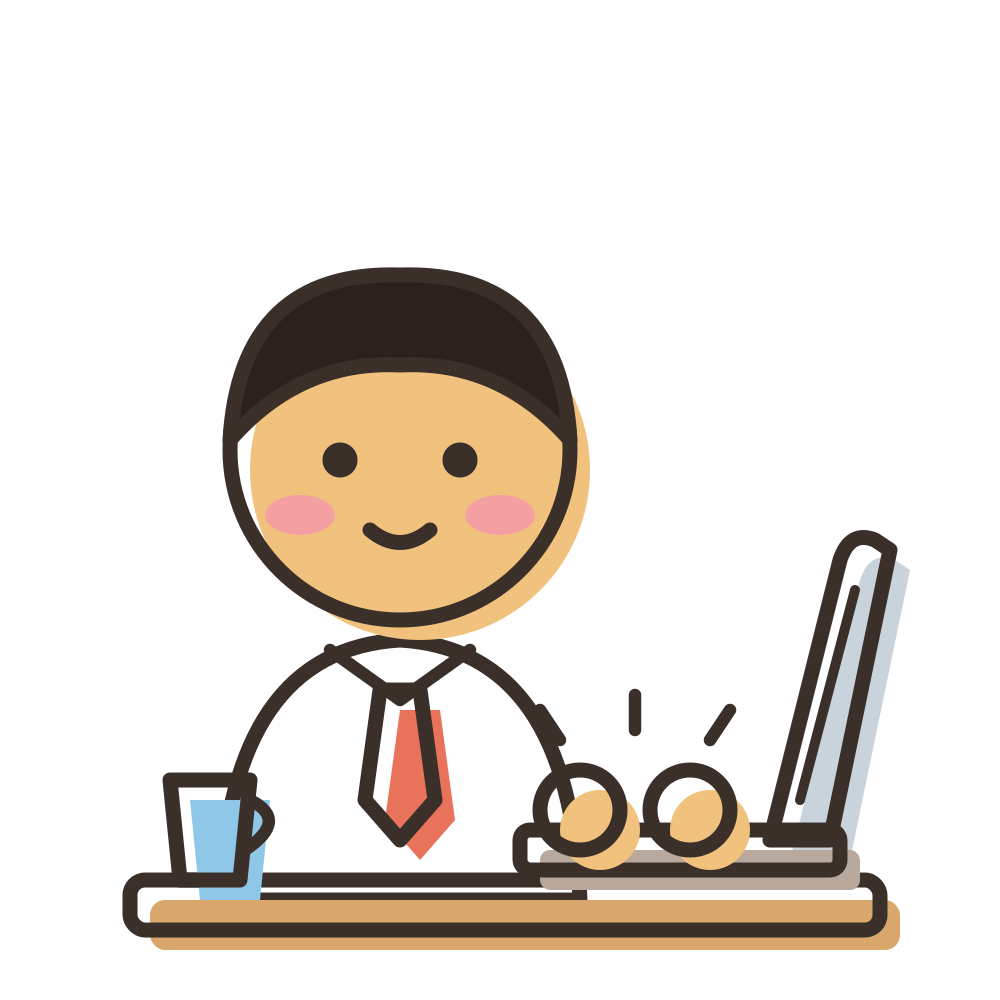
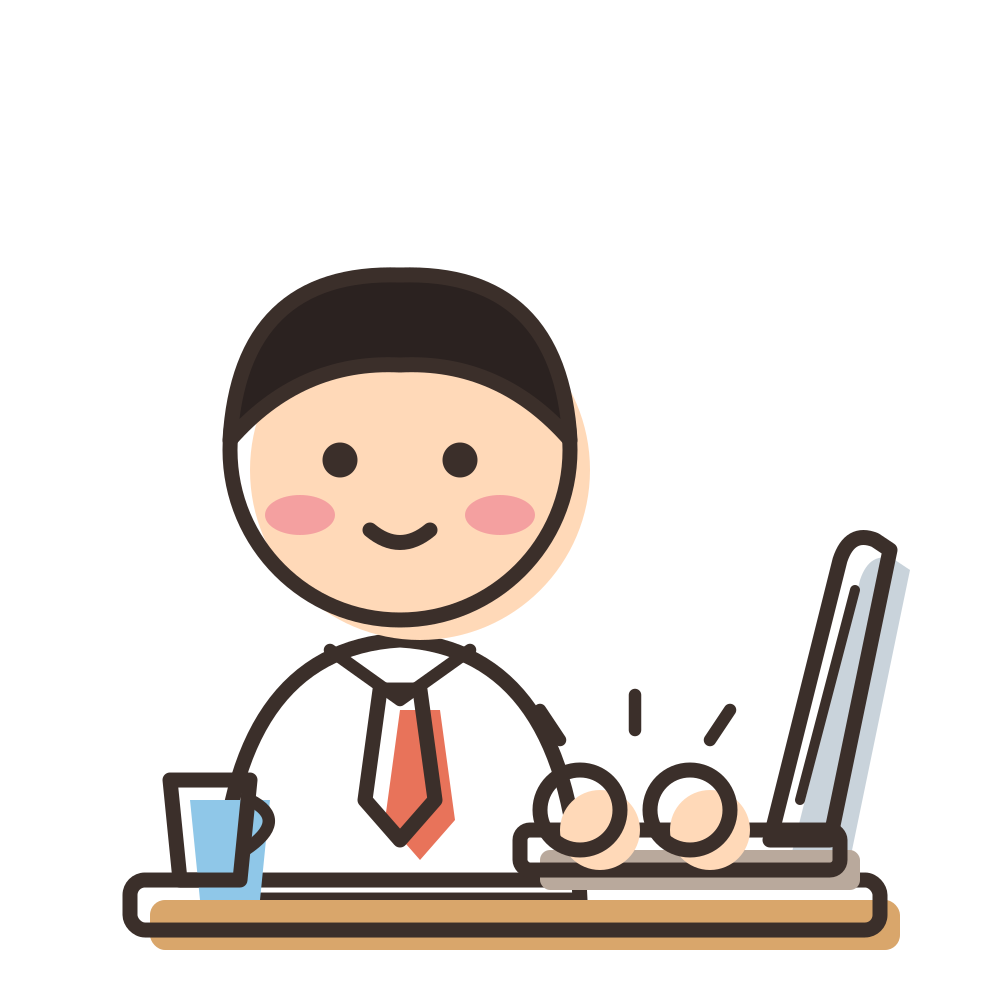
Use the default skin tone for all characters
Claude-Session: https://claude.ai/code/session_01EDMcckEBDPXo8Z4fnALAoH

Changed region(s): [[0.248, 0.372, 0.589, 0.651], [0.558, 0.775, 0.775, 0.868]]

diff --git a/art_items/b01.py b/art_items/b01.py
@@ -18,23 +18,23 @@ def drop(x, y, k=1.0, col='#8fc7e8'):
 # 1. jumping with joy
 ITEMS['person-jumping-joy'] = (
     arm('M80 122 Q60 100 48 62', '#f5b971') + arm('M120 122 Q140 100 152 62', '#f5b971')
-    + z('circle', '#f1c27d', cx=46, cy=56, r=9) + z('circle', '#f1c27d', cx=154, cy=56, r=9)
+    + z('circle', '#ffd9b8', cx=46, cy=56, r=9) + z('circle', '#ffd9b8', cx=154, cy=56, r=9)
     + arm('M88 146 Q80 160 72 170', '#5b6b7a') + arm('M112 146 Q120 160 128 170', '#5b6b7a')
     + z('ellipse', '#8b6b4f', cx=68, cy=172, rx=9, ry=6) + z('ellipse', '#8b6b4f', cx=132, cy=172, rx=9, ry=6)
     + body(100, 112, 152, '#f5b971', 30)
-    + face(100, 76, '#f1c27d', '#5a4033', 'open')
+    + face(100, 76, '#ffd9b8', '#5a4033', 'open')
     + s('path', d='M74 188 Q100 182 126 188', stroke_width=2.5)
     + s('path', d='M28 30 L28 40 M23 35 L33 35 M172 30 L172 40 M167 35 L177 35', stroke_width=2.5))
 
 # 2. thinking
 ITEMS['person-thinking'] = (
     body(88, 136, 186, '#8fc7e8')
-    + head(88, 92, '#8d5a3b', '#2b2220')
+    + head(88, 92, '#ffd9b8', '#2b2220')
     + dot(76, 94) + dot(100, 94) + cheeks(68, 108, 105)
     + s('path', d='M74 112 L84 110')
     + s('path', d='M70 80 L80 78 M96 76 L106 80', stroke_width=2.5)
     + arm('M104 178 Q124 156 108 132', '#8fc7e8')
-    + z('circle', '#8d5a3b', cx=106, cy=126, r=10)
+    + z('circle', '#ffd9b8', cx=106, cy=126, r=10)
     + s('path', d='M140 40 Q140 22 155 22 Q170 22 170 36 Q170 46 158 52 L158 62', stroke_width=12)
     + s('path', d='M140 40 Q140 22 155 22 Q170 22 170 36 Q170 46 158 52 L158 62', stroke='#f5b971', stroke_width=6)
     + z('circle', '#f5b971', cx=158, cy=78, r=6))
@@ -56,8 +56,8 @@ ITEMS['person-angry'] = (
     + z('path', '#f4f4f0', d='M136 40 Q126 40 128 30 Q126 18 140 20 Q146 10 156 18 Q168 18 164 30 Q166 40 154 40Z') + s('path', d='M128 62 Q136 56 130 50 Q124 44 132 40', stroke_width=2.5)
     + arm('M72 150 Q56 160 50 146', '#9ccf7a') + arm('M128 150 Q144 160 150 146', '#9ccf7a')
     + body(100, 136, 186, '#9ccf7a')
-    + z('circle', '#c68642', cx=48, cy=142, r=9) + z('circle', '#c68642', cx=152, cy=142, r=9)
-    + head(100, 94, '#c68642', '#5a4033')
+    + z('circle', '#ffd9b8', cx=48, cy=142, r=9) + z('circle', '#ffd9b8', cx=152, cy=142, r=9)
+    + head(100, 94, '#ffd9b8', '#5a4033')
     + s('path', d='M78 84 L94 90 M122 84 L106 90', stroke_width=3)
     + dot(88, 98) + dot(112, 98)
     + f'<ellipse cx="78" cy="108" rx="9" ry="5" fill="#f07a8a" stroke="none"/><ellipse cx="122" cy="108" rx="9" ry="5" fill="#f07a8a" stroke="none"/>'
@@ -67,17 +67,17 @@ ITEMS['person-angry'] = (
 ITEMS['person-surprised'] = (
     body(100, 136, 186, '#f5d58a')
     + arm('M78 150 Q60 140 58 118', '#f5d58a') + arm('M122 150 Q140 140 142 118', '#f5d58a')
-    + face(100, 92, '#f1c27d', '#2b2220', 'o')
-    + z('circle', '#f1c27d', cx=58, cy=112, r=9) + z('circle', '#f1c27d', cx=142, cy=112, r=9)
+    + face(100, 92, '#ffd9b8', '#2b2220', 'o')
+    + z('circle', '#ffd9b8', cx=58, cy=112, r=9) + z('circle', '#ffd9b8', cx=142, cy=112, r=9)
     + s('path', d='M100 46 L100 34 M72 52 L64 42 M128 52 L136 42 M56 70 L44 64 M144 70 L156 64', stroke_width=3))
 
 # 6. thumbs up
 ITEMS['person-thumbs-up'] = (
     body(92, 136, 186, '#e8735a')
     + arm('M116 160 Q140 150 146 116', '#e8735a')
-    + face(92, 92, '#8d5a3b', '#2b2220', 'smile')
-    + z('rect', '#8d5a3b', x=138, y=82, width=11, height=26, rx=5.5)
-    + z('rect', '#8d5a3b', x=136, y=102, width=26, height=24, rx=9)
+    + face(92, 92, '#ffd9b8', '#2b2220', 'smile')
+    + z('rect', '#ffd9b8', x=138, y=82, width=11, height=26, rx=5.5)
+    + z('rect', '#ffd9b8', x=136, y=102, width=26, height=24, rx=9)
     + s('path', d='M149 110 L160 110 M149 118 L160 118', stroke_width=2)
     + s('path', d='M168 70 L168 80 M163 75 L173 75 M174 96 L182 92', stroke_width=2.5))
 
@@ -100,8 +100,8 @@ ITEMS['person-bowing-thanks'] = (
     + z('ellipse', '#8b6b4f', cx=126, cy=180, rx=16, ry=6)
     + z('ellipse', '#7cc4b0', cx=112, cy=116, rx=40, ry=26, transform='rotate(35 112 116)')
     + arm('M92 104 Q92 124 98 140', '#7cc4b0')
-    + z('circle', '#c68642', cx=98, cy=146, r=8)
-    + z('circle', '#c68642', cx=64, cy=98, r=30)
+    + z('circle', '#ffd9b8', cx=98, cy=146, r=8)
+    + z('circle', '#ffd9b8', cx=64, cy=98, r=30)
     + s('path', '#2b2220', d='M80 124 A30 30 0 1 0 38 83 Q52 104 80 124Z')
     + s('path', d='M48 108 Q53 113 58 108', stroke_width=2.5)
     + f'<ellipse cx="60" cy="119" rx="6" ry="3.5" fill="{CH}" stroke="none"/>'
@@ -113,7 +113,7 @@ ITEMS['grandma-smiling'] = (
     + s('path', '#f4f4f0', d='M92 138 L100 152 L108 138Z', stroke_width=2.5)
     + dot(100, 162, 3.5) + dot(100, 176, 3.5)
     + z('circle', '#e8e1d8', cx=100, cy=52, r=15)
-    + head(100, 92, '#c68642', '#e8e1d8')
+    + head(100, 92, '#ffd9b8', '#e8e1d8')
     + s('path', d='M83 94 Q88 99 93 94 M107 94 Q112 99 117 94', stroke_width=2.5)
     + s('circle', cx=88, cy=95, r=10, stroke_width=2.5) + s('circle', cx=112, cy=95, r=10, stroke_width=2.5)
     + s('path', d='M98 94 Q100 91 102 94', stroke_width=2.5)
@@ -126,9 +126,9 @@ ITEMS['baby-crawling'] = (
     + z('rect', '#8fc7e8', x=86, y=140, width=18, height=40, rx=9)
     + z('ellipse', '#8fc7e8', cx=146, cy=166, rx=24, ry=14)
     + z('ellipse', '#8fc7e8', cx=118, cy=136, rx=46, ry=28)
-    + z('ellipse', '#f1c27d', cx=168, cy=176, rx=9, ry=6)
-    + z('ellipse', '#f1c27d', cx=94, cy=178, rx=10, ry=6)
-    + z('circle', '#f1c27d', cx=64, cy=104, r=34)
+    + z('ellipse', '#ffd9b8', cx=168, cy=176, rx=9, ry=6)
+    + z('ellipse', '#ffd9b8', cx=94, cy=178, rx=10, ry=6)
+    + z('circle', '#ffd9b8', cx=64, cy=104, r=34)
     + s('path', d='M58 72 Q56 58 66 56 Q74 58 68 64 Q64 66 64 62', stroke_width=3)
     + dot(52, 106) + dot(76, 106) + cheeks(44, 84, 117)
     + s('path', d='M58 120 Q64 125 70 120'))

diff --git a/art_items/b02.py b/art_items/b02.py
@@ -12,7 +12,7 @@ def hand(x, y, skin, r=8):
 
 
 # 1. doctor
-SK = '#f1c27d'; HR = '#2b2220'
+SK = '#ffd9b8'; HR = '#2b2220'
 ITEMS['doctor'] = (
     z('path', HR, d='M66 96 Q60 140 74 146 L126 146 Q140 140 134 96Z')
     + body('#ffffff')
@@ -27,7 +27,7 @@ ITEMS['doctor'] = (
 )
 
 # 2. nurse
-SK = '#8d5a3b'; HR = '#2b2220'
+SK = '#ffd9b8'; HR = '#2b2220'
 ITEMS['nurse'] = (
     body('#8fc7e8')
     + s('path', d='M88 138 L100 152 L112 138', stroke_width=2.5)
@@ -60,7 +60,7 @@ ITEMS['chef'] = (
 )
 
 # 4. teacher
-SK = '#c68642'; HR = '#e8e1d8'
+SK = '#ffd9b8'; HR = '#e8e1d8'
 ITEMS['teacher'] = (
     s('path', d='M36 120 L28 180 M88 120 L96 180', stroke_width=4)
     + z('rect', '#8b6b4f', x=22, y=58, width=82, height=66, rx=4)
@@ -101,7 +101,7 @@ ITEMS['firefighter'] = (
 )
 
 # 6. farmer
-SK = '#c68642'; HR = '#5a4033'
+SK = '#ffd9b8'; HR = '#5a4033'
 ITEMS['farmer'] = (
     body('#e8735a')
     + s('path', '#8fb3e0', d='M78 186 L78 150 L122 150 L122 186Z')
@@ -121,7 +121,7 @@ ITEMS['farmer'] = (
 )
 
 # 7. construction-worker
-SK = '#8d5a3b'; HR = '#2b2220'
+SK = '#ffd9b8'; HR = '#2b2220'
 ITEMS['construction-worker'] = (
     body('#8fb3e0')
     + s('path', '#f5b971', d='M64 186 Q66 146 88 138 L90 186Z')
@@ -140,7 +140,7 @@ ITEMS['construction-worker'] = (
 )
 
 # 8. office-worker-laptop
-SK = '#f1c27d'; HR = '#2b2220'
+SK = '#ffd9b8'; HR = '#2b2220'
 ITEMS['office-worker-laptop'] = (
     body('#ffffff', cx=80, top=128, bottom=180)
     + s('path', d='M66 130 L80 140 L94 130', stroke_width=2.5)
@@ -171,7 +171,7 @@ ITEMS['delivery-person'] = (
 )
 
 # 10. scientist
-SK = '#c68642'; HR = '#2b2220'
+SK = '#ffd9b8'; HR = '#2b2220'
 ITEMS['scientist'] = (
     z('circle', HR, cx=70, cy=90, r=14) + z('circle', HR, cx=130, cy=90, r=14)
     + z('circle', HR, cx=74, cy=116, r=12) + z('circle', HR, cx=126, cy=116, r=12)

diff --git a/art_items/b08.py b/art_items/b08.py
@@ -141,7 +141,7 @@ ITEMS['ruler-triangle'] = rt
 # 9. student-studying
 st = (s('path', d='M150 126 Q170 96 150 70', stroke='#5b6b7a', stroke_width=0.01))
 st = (z('path', '#9ccf7a', d='M48 134 Q50 100 82 98 Q114 100 116 134Z')
-      + face(82, 68, '#c68642', '#2b2220', 'smile')
+      + face(82, 68, '#ffd9b8', '#2b2220', 'smile')
       + s('path', d='M150 124 L150 92 L138 70', stroke_width=6)
       + s('path', d='M150 124 L150 92 L138 70', stroke='#5b6b7a', stroke_width=2)
       + z('path', '#f5b971', d='M120 64 Q132 44 156 58 L146 72 Z')
@@ -155,7 +155,7 @@ st = (z('path', '#9ccf7a', d='M48 134 Q50 100 82 98 Q114 100 116 134Z')
       + s('path', d='M100 110 L112 92', stroke_width=0.01)
       + s('path', d='M64 112 Q78 124 104 118', stroke_width=7)
       + s('path', d='M64 112 Q78 124 104 118', stroke='#9ccf7a', stroke_width=2.5)
-      + z('circle', '#c68642', cx=106, cy=116, r=7))
+      + z('circle', '#ffd9b8', cx=106, cy=116, r=7))
 st = st.replace(s('path', d='M100 110 L112 92', stroke_width=0.01), '')
 st = st.replace(s('path', d='M100 110 L112 92', stroke='#e8735a', stroke_width=4),
                 s('path', d='M106 116 L118 98', stroke_width=7) + s('path', d='M106 116 L118 98', stroke='#e8735a', stroke_width=2.5))

diff --git a/art.py b/art.py
@@ -16,7 +16,7 @@ def face(cx,cy,skin,hair,mouth='smile'):
 I={}
 I['01_hello']=(z('path','#7cc4b0',d='M66 180 Q68 128 100 126 Q132 128 134 180Z')
  +s('path',d='M128 140 Q146 120 156 92',stroke_width=8)+s('path',d='M128 140 Q146 120 156 92',stroke='#7cc4b0',stroke_width=3)
- +z('circle','#8d5a3b',cx=158,cy=84,r=10)+face(100,82,'#8d5a3b','#2b2220','open'))
+ +z('circle','#ffd9b8',cx=158,cy=84,r=10)+face(100,82,'#ffd9b8','#2b2220','open'))
 I['02_idea']=(z('path','#f5b971',d='M66 186 Q68 140 100 138 Q132 140 134 186Z')+face(100,98,'#ffd9b8','#5a4033','o')
  +z('circle','#ffe27a',cx=152,cy=42,r=18)+s('rect','#b9a99c',x=145,y=60,width=14,height=10,rx=3)
  +s('path',d='M152 12 L152 4 M176 22 L183 16 M128 22 L121 16 M182 44 L190 44',stroke_width=2.5))

diff --git a/art_items/b10.py b/art_items/b10.py
@@ -152,8 +152,8 @@ ITEMS['basketball'] = (
     + s('path', '#ffffff', d='M62 70 Q70 56 84 50', stroke='#ffffff', stroke_width=4)
 )
 
-# 8. person running (skin #c68642)
-SK = '#c68642'
+# 8. person running (skin #ffd9b8)
+SK = '#ffd9b8'
 ITEMS['person-running'] = (
     s('path', d='M22 92 L40 92 M18 112 L38 112 M24 132 L42 132', stroke_width=3)
     # 後ろ脚
